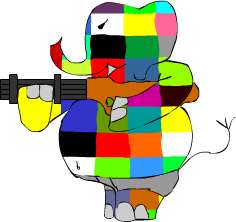
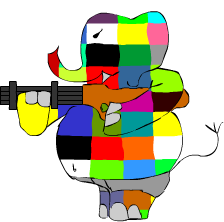
Début boss
git-svn-id: http://subversion.assembla.com/svn/superbabar@736 26ce8c4a-5add-457f-a3ae-dfd0da483ec7

Changed region(s): [[0.0, 0.0, 0.9688, 1.0], [0.9062, 0.5135, 1.0, 0.6486], [0.5312, 0.6486, 0.5625, 0.6757]]

diff --git a/src/actors/boss_elmer.cpp b/src/actors/boss_elmer.cpp
@@ -19,11 +19,18 @@ Boss_elmer::Boss_elmer(std::string name, int posx, int posy):
 	Boss(name, posx, posy)
 {
     m_weapon = new Elmar_machine_gun();
+    m_fire = 0;
+    m_elmar_state = ELMAR_CHARGE;
+    m_speed.x = 10;
 }
 
 Boss_elmer::Boss_elmer(Analyser *analyserLevel):
 	Boss(analyserLevel)
 {
+    m_weapon = new Elmar_machine_gun();
+    m_fire = 0;
+    m_elmar_state = ELMAR_CHARGE;
+    m_speed.x = 10;
 }
 
 Boss_elmer::~Boss_elmer()
@@ -42,8 +49,6 @@ void Boss_elmer::update_speed_simple()
         m_pos.y -= 3*BOX_SIZE;
     }
     m_speed.y += GRAVITE;
-    m_sprite->set_pos(m_pos);
-    m_sprite->change_anim(m_state,m_dir);
 }
 
 void Boss_elmer::update_speed_ia()
@@ -58,14 +63,42 @@ void Boss_elmer::update_speed_ia()
         m_pos.y -= 3*BOX_SIZE;
     }
     m_speed.y += GRAVITE;
-    m_sprite->set_pos(m_pos);
-    m_sprite->change_anim(m_state,m_dir);
 }
 
 
 void Boss_elmer::update()
 {
+    // mise à jour des dimensions
+    m_sprite->set_pos(m_pos);
+    m_sprite->change_anim(m_state,m_dir);
+    m_pos.w = m_sprite->w();
+    m_pos.h = m_sprite->h();
+
+    // mise à jour du joueur ciblé
 	Rect babarpos = gPlayers->closer_babar(position())->position();
+
+	// mise à jour de l'arme
+	if ( m_weapon ) {
+	    if ( m_weapon->munitions() > 0) {
+            gProj->add_proj(fire(), MONSTERS);
+	    } else {
+	        m_weapon->add_munitions();
+	    }
+	}
+
+	// comprotement d'Elmar
+	// De façon générale Elmar se met dans les coins et en fonction
+	// de la position de Babar saute ou non
+	if ( m_elmar_state == ELMAR_CHARGE ) {
+        // on regarde si Elmar est arrivé dans un coin
+        if ( m_pos.x < m_pos.w/2 && m_dir == LEFT ) {
+            m_dir = RIGHT;
+            m_speed.x *= -1;
+        } else if ( m_pos.x + (3*m_pos.w)/2 > 2*gStatic->background()->w() - 800 && m_dir == RIGHT ) {
+            m_dir = LEFT;
+            m_speed.x *= -1;
+        }
+	}
 }
 
 

diff --git a/src/actors/boss.h b/src/actors/boss.h
@@ -22,10 +22,10 @@
 
 class Boss : public Monster, public Life_bar_possessor {
 public:
-	
+
 	/*!
 	 *	@brief Constructeur
-	 *	@param name Le nom du monstre 
+	 *	@param name Le nom du monstre
 	 *	@param posx Position initiale
 	 *	@param posy Position initiale
 	*/
@@ -46,15 +46,16 @@ public:
 	 * 	@brief Met à jour la vitesse du monstre quand il est proche de babar
 	*/
 	virtual void update_speed_ai();
-	
+
 	virtual void update();
-	
+
 	virtual double life_bar_status() { return double(m_life) / double(m_life_max);}
-	
+
 	virtual void kill();
-	
+
 private:
 	void initBoss();
+
 };
 
 

diff --git a/src/actors/boss_elmer.h b/src/actors/boss_elmer.h
@@ -12,7 +12,9 @@
 
 #include "../actors/boss.h"
 
-
+enum elmar_state {
+    ELMAR_FIRE, ELMAR_CHARGE, ELMAR_JUMP
+};
 
 /**
  * 	@class Boss_elmer
@@ -22,6 +24,8 @@
 
 class Boss_elmer : public Boss {
 private:
+    elmar_state m_elmar_state;
+    int m_fire;
 
 public:
 

diff --git a/src/actors/monsters.cpp b/src/actors/monsters.cpp
@@ -55,6 +55,9 @@ Monster::Monster(Analyser *analyserLevel):
 Monster::~Monster()
 {
 	PRINT_CONSTR(3, "destruction d'un monstre")
+	if ( m_weapon ) {
+        delete m_weapon;
+	}
 }
 
 void Monster::initFromMonsterFile(std::string file)
